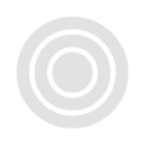
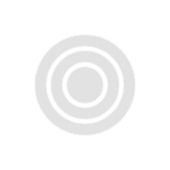
sitck resize

Changed region(s): [[0.1103, 0.1103, 0.8828, 0.8828]]

diff --git a/N64forXBOX/N64forXBOX.css b/N64forXBOX/N64forXBOX.css
@@ -122,8 +122,8 @@
 
 .custom .stick {
     position: absolute;
-    width: 145px;
-    height: 145px;
+    width: 170px;
+    height: 170px;
 }
 
 .custom .stick.left {